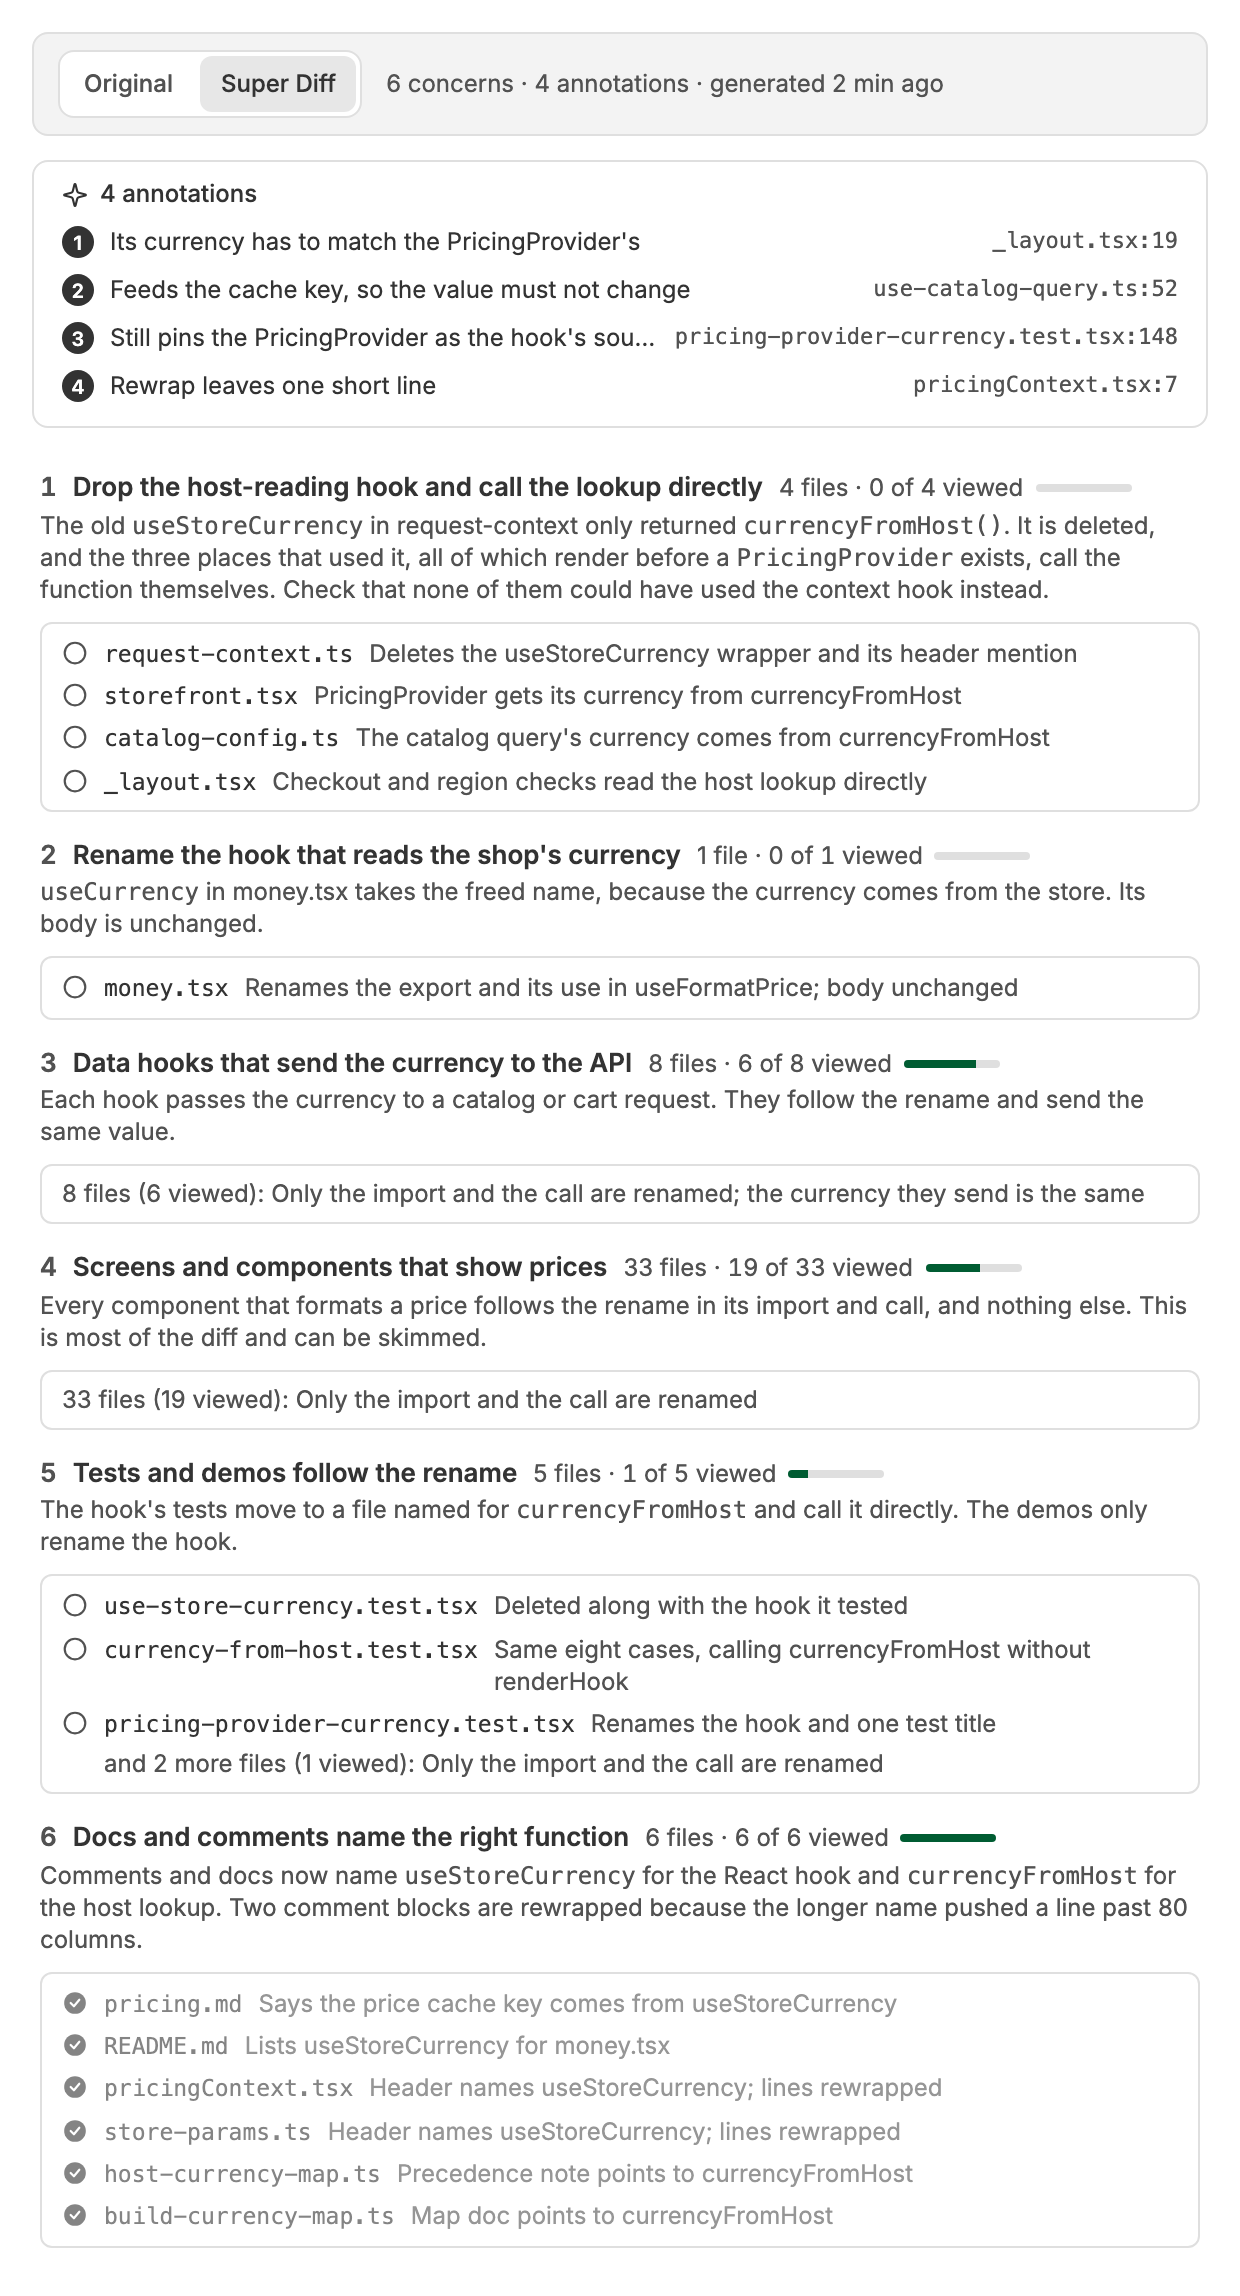
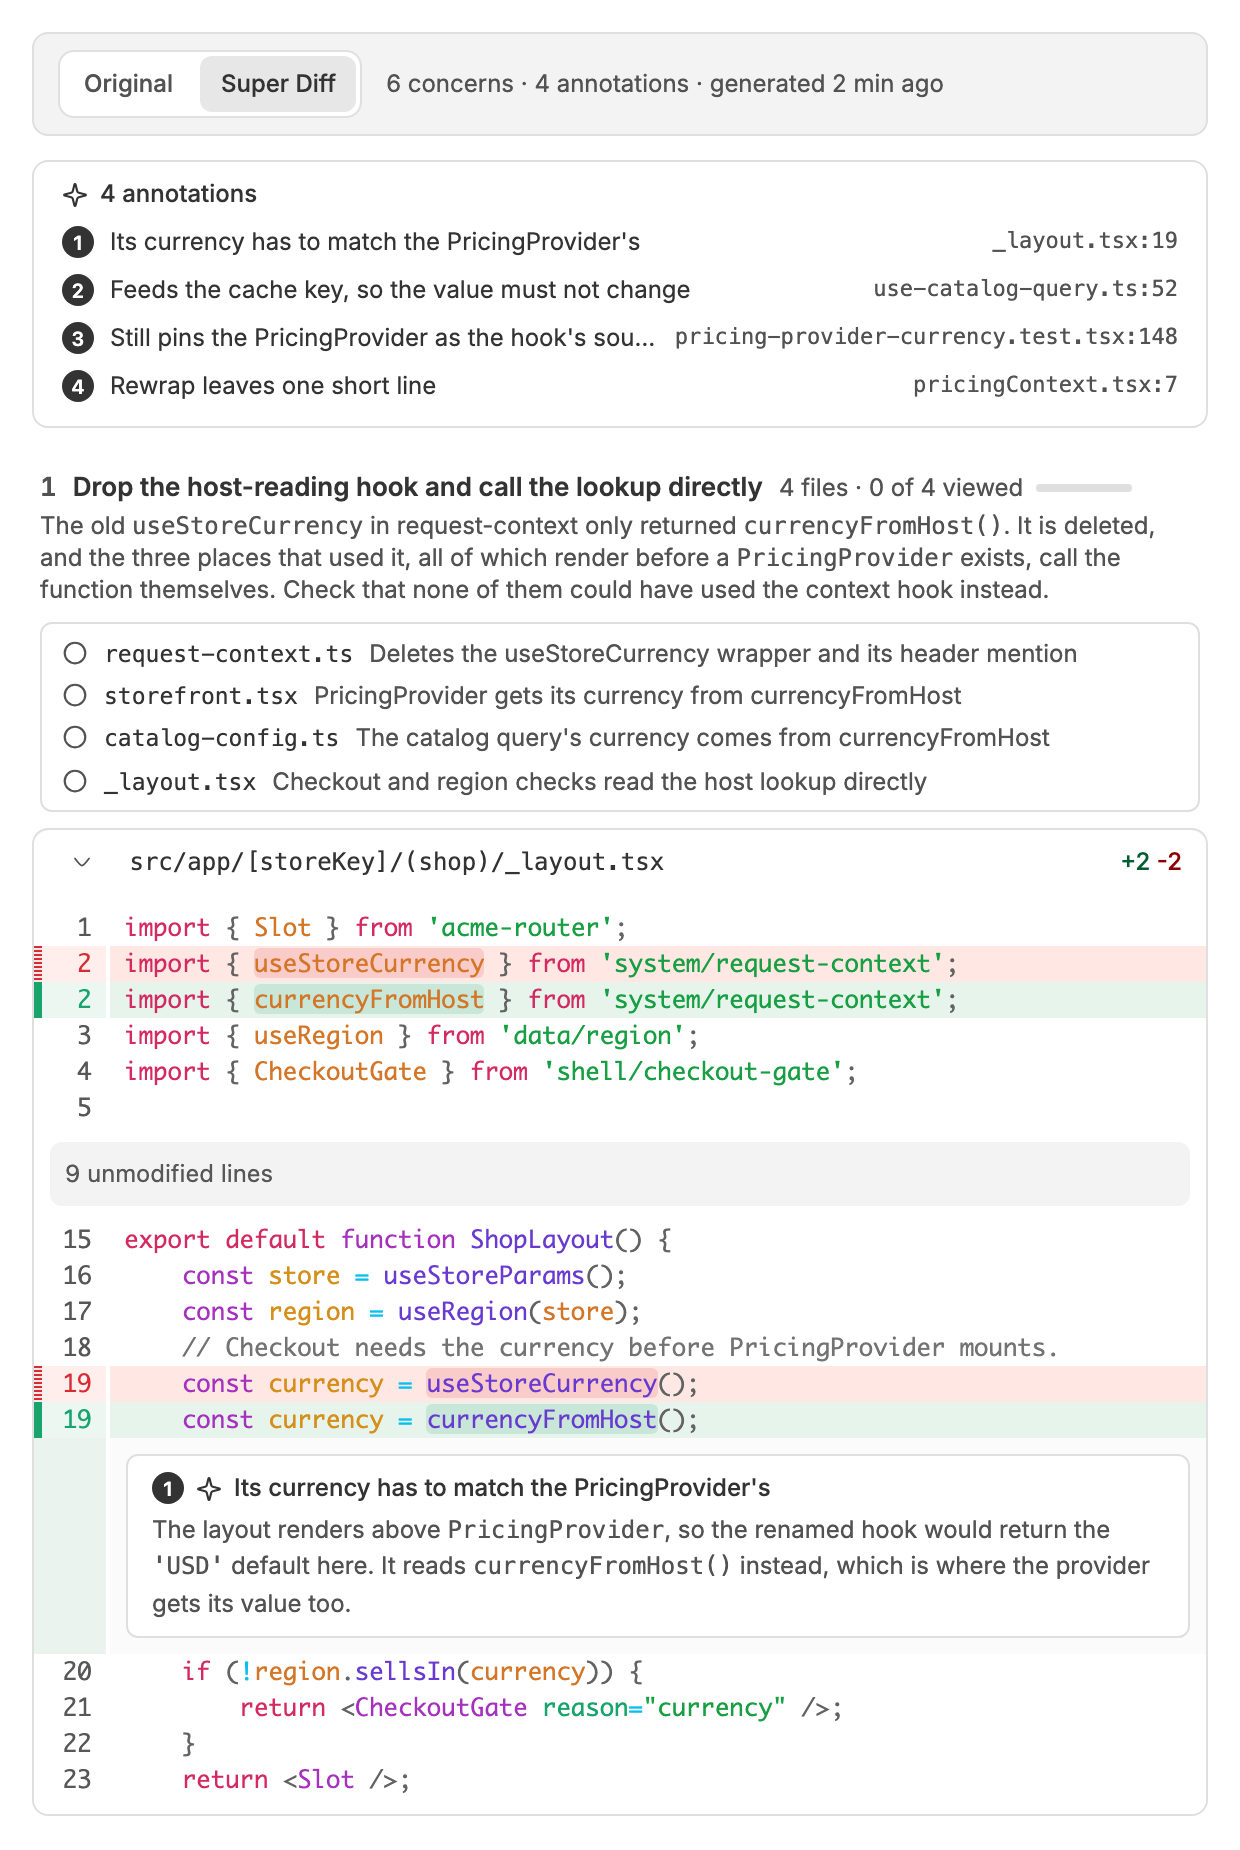
816687d Super Diff: show a diff with an annotation in the README's overview
danielbachhuber/bb-plugins@816687d505b93a7038272ebc261f97f5737aa380

diff --git a/README.md b/README.md
@@ -24,7 +24,7 @@ small history while the visual history is still available.
 | [PR Sweep](pr-sweep/README.md) | Open pull requests you authored in one list, newest first with in-progress ones on top and those waiting on others closed to one line at the bottom, with local notes, new comment counts, review comments a click away, a Dismiss for failing checks you cannot fix, and where a stacked pull request sits in its stack. | 5 stories |
 | [Presentations](presentations/README.md) | Give a talk from a bb thread. | 7 stories |
 | [Review Sweep](review-sweep/README.md) | Open pull requests waiting on a review from you in one list, ordered Now, Next, and Later by what needs you, oldest request first, with local notes, new comment counts, comments a click away, and where a stacked pull request sits in its stack, a Snooze that sinks a request to one line until a day you pick, plus Batch to start reviews for several at once. | 6 stories |
-| [Super Diff](super-diff/README.md) | Group the Diff tab by concern, with an explanation for each group and notes on the trickier code, written by the thread's agent. | 8 stories |
+| [Super Diff](super-diff/README.md) | Group the Diff tab by concern, with an explanation for each group and notes on the trickier code, written by the thread's agent. | 9 stories |
 | [Super Diff v1](super-diff-v1/README.md) | Review a branch one concern at a time. | 18 stories |
 | [sweep-ui](sweep-ui/README.md) | The list Issue Sweep, PR Sweep, and Review Sweep draw each tab with: summary squares, rows ordered Now, Next, and Later, and a stage track. | 3 stories |
 | [Thread Overview](thread-overview/README.md) | A band under each thread's header saying what the thread is for, what has been done so far, and which step it is on, written by the agent as it works and edited by you in place. | 1 story |

diff --git a/super-diff/README.md b/super-diff/README.md
@@ -10,9 +10,15 @@ Source: [`bb-plugin-super-diff`](https://github.com/danielbachhuber/bb-plugins/t
 
 ### Overview
 
-A Super Diff of a 57-file rename: the row, the annotation list, then six concerns, each with what its files' changes are and how many of them Diff Viewed has marked viewed. In bb, each concern's diff cards follow its heading.
+A Super Diff of a 57-file rename: the row, the annotation list, the first concern with what each file's change is, and one of its files in bb's diff with an annotation under the line it explains.
 
 ![Overview](super-diff--overview.png)
+
+### All concerns
+
+All six concerns of the same Super Diff, each with what its files' changes are and how many of them Diff Viewed has marked viewed. In bb, each concern's diff cards follow its heading.
+
+![All concerns](super-diff--all-concerns.png)
 
 ### Not generated
 
